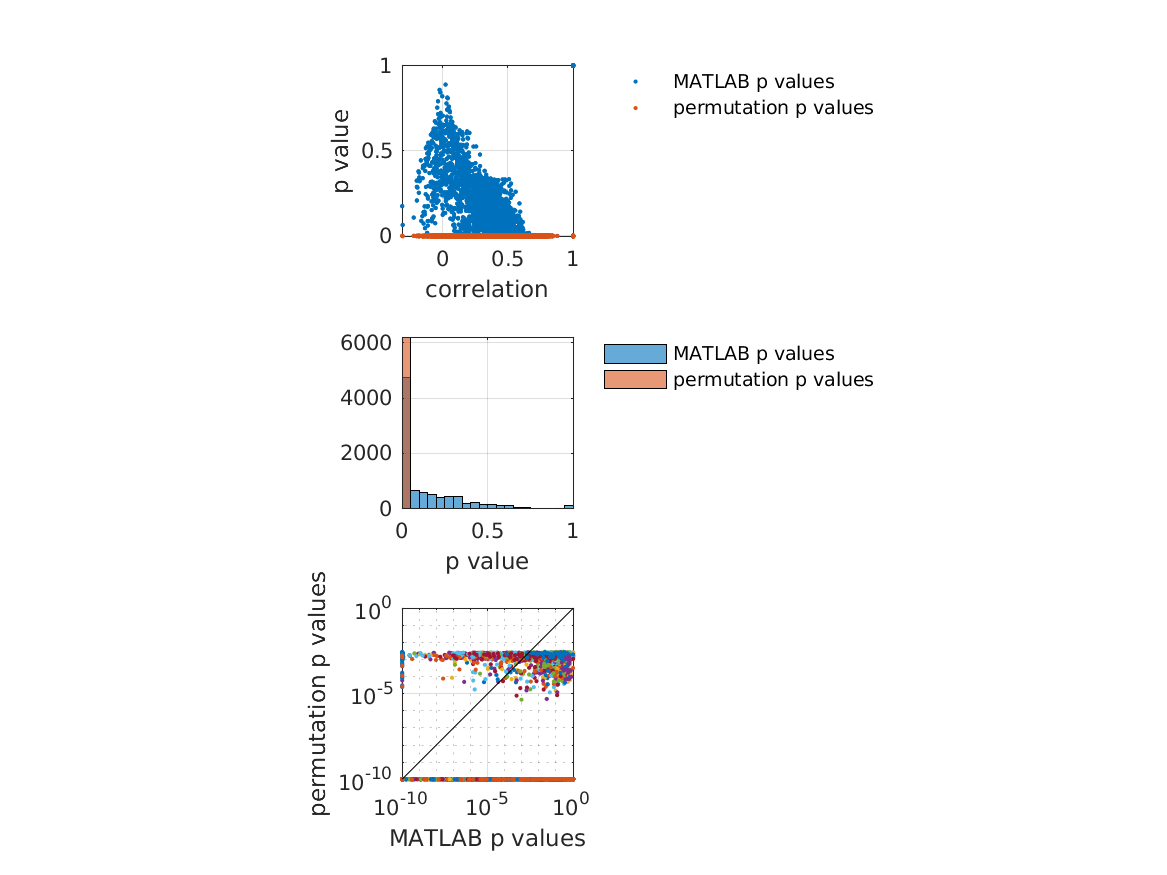
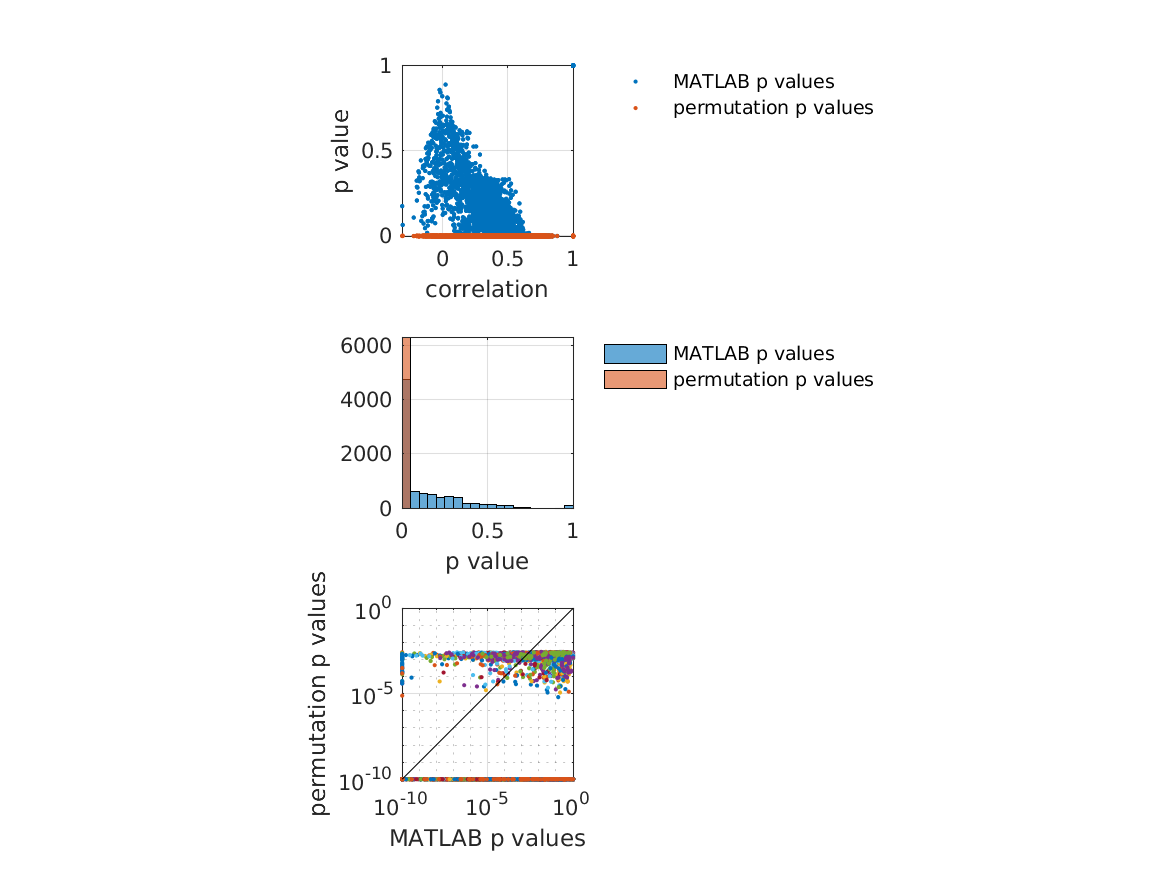
fixed bug in modularity- issue was that module labels were skipping

diff --git a/modularity_pipeline.m b/modularity_pipeline.m
@@ -92,10 +92,15 @@ function [] = modularity_pipeline(inpf, sub)
     for i = 1:s
         for h=1:3
             X_slice = XX{h};
+            M =  Mw(:, h) 
+
+            %assert(isequal(max(M), numel(unique(M))))
+
+            [~, ~, M] = unique(M)
 
             X_slice = simann_model(X_slice, 'varnode', true, ...
                 'vartime', true,  ...
-               'covsystem', true);
+                'partition', M, 'covsystem', true);
             
             % compute null correlations
             [U_, S_, V_] = svd(X_slice, "econ");
